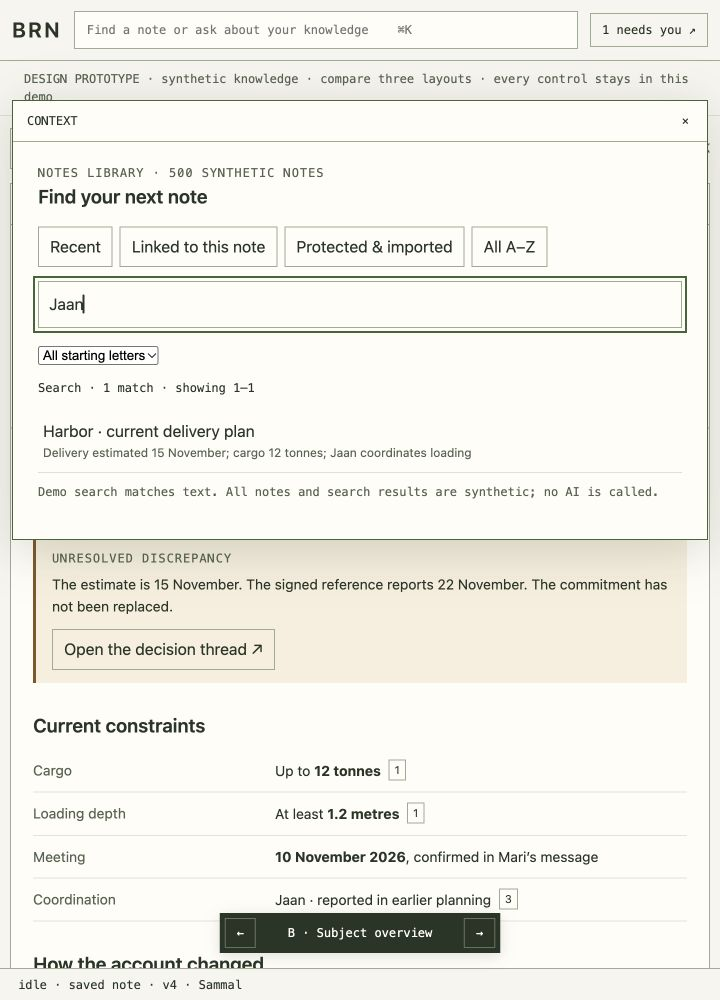
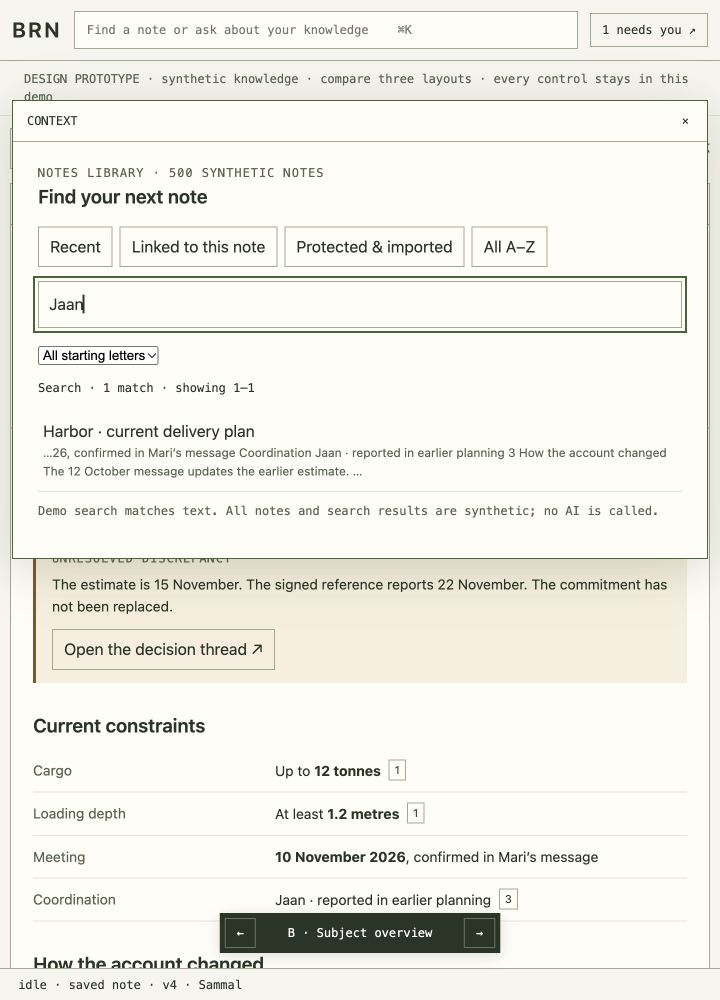
prototype: search complete note bodies with matching context

Changed region(s): [[0.0306, 0.434, 0.9778, 0.558]]

diff --git a/crates/brn-desktop/prototypes/ordinary-wiki-notes.prototype.html b/crates/brn-desktop/prototypes/ordinary-wiki-notes.prototype.html
@@ -17,7 +17,7 @@ const btn=(text,action,cls='')=>`<button class="${cls}" onclick="${action}">${te
 const head=title=>`<div class="tile-header chrome"><span>${title}</span><span>↗ &nbsp; ⋯</span></div>`;
 function title(){let n=notes[state.note];return `<div class="chips"><span class="chip mono">${n.purpose}</span><span class="chip mono ${n.protected?'protected':''}">${n.protected?'protected':'working'} · v${state.undo&&state.note==='project'?5:n.version}</span><span class="muted mono">${dirty()?'unsaved draft':'saved'}</span></div><h1>${n.title}</h1><div class="muted mono">Last accepted change · ${state.undo&&state.note==='project'?'13 October · owner · Undo preview':n.change}</div>`}
 function conflict(){return `<div class="warning"><div class="label">Unresolved discrepancy</div><p>The estimate is ${state.undo?'20':'15'} November. The signed reference reports 22 November. The commitment has not been replaced.</p>${btn('Open the decision thread ↗',"openDrawer('conflict')")}</div>`}
-function content(){if(notes[state.note].demo)return `<p class="summary">${notes[state.note].title}</p><p>This synthetic placeholder exercises navigation among 500 notes. It supplies no researched claims, retained sources or actual BRN history.</p>${btn('Return to Harbor overview',"selectNote('project')")}`;if(state.note==='commitment')return `<p class="summary">The signed agreement reports a committed delivery date of <strong>22 November 2026</strong>.</p><p>A change requires agreement by the parties. This imported reference is protected. Protection preserves its content; it does not certify its claims or record your adoption of them.</p><h2>Source</h2><p>Signed delivery agreement, 1 October 2026.</p>${btn('Read retained evidence',"openSource('agreement')")}`;if(state.note==='requirements')return `<p class="summary">Loading depends on both cargo mass and available water depth.</p><h2>Conditions</h2><p>The reported maximum cargo is <strong>12 tonnes</strong>. Loading requires depth of <strong>at least 1.2 metres</strong>. These are separate constraints; neither establishes that a proposed passage is possible.</p>${btn('Read source passage',"openSource('update')")}<h2>Related knowledge</h2>${btn('Harbor delivery plan →',"selectNote('project')")}`;if(state.note==='comparison')return `<p class="summary">Fixed slots offer a known clock window. Tidal access depends on water height and wind conditions.</p><h2>Supported differences</h2><p>Fixed slots: Tuesday 09:00–11:00, book 48 hours ahead, depth at least 1.2 metres. Medical emergencies can request an exception.</p><p>Tidal: height at least 2.4 metres, book 24 hours ahead, cargo at most 12 tonnes. Passage closes at wind of 18 metres/second or stronger.</p><h2>Interpretation</h2><p><strong>Inference:</strong> fixed slots may be easier to plan around, while tidal access may offer timing flexibility. The tidal source gives no medical-exception rule; it remains unspecified.</p><p class="muted mono">The context rail contains the two process references supporting this comparison.</p>`;return `<p class="summary">Delivery is <strong>estimated for ${state.undo?'20':'15'} November 2026</strong>. This is working planning evidence, not a replacement for the signed commitment.${state.undo?btn('3',"openSource('older')",'citation'):btn('1',"openSource('update')",'citation')}</p>${conflict()}<h2 id="constraints">Current constraints</h2><table class="facts"><tr><th>Cargo</th><td>Up to <strong>12 tonnes</strong> ${btn('1',"openSource('update')",'citation')}</td></tr><tr><th>Loading depth</th><td>At least <strong>1.2 metres</strong> ${btn('1',"openSource('update')",'citation')}</td></tr><tr><th>Meeting</th><td><strong>10 November 2026</strong>, confirmed in Mari’s message</td></tr><tr><th>Coordination</th><td>Jaan · reported in earlier planning ${btn('3',"openSource('older')",'citation')}</td></tr></table><h2 id="evidence">How the account changed</h2><p>The 12 October message updates the earlier estimate. The planning note written on 8 October was ingested later, but remains older evidence. Its contact detail is useful; its estimate does not become newer evidence.</p><h2 id="questions">Open question</h2><p>Clarify the estimate and signed commitment before making a new promise. No external reply has been sent.</p>`}
+function content(){if(notes[state.note].demo)return `<p class="summary">${notes[state.note].title}</p><p>${catalog.find(n=>n.id===state.note).searchText}</p><p>This synthetic placeholder exercises navigation among 500 notes. It supplies no researched claims, retained sources or actual BRN history.</p>${btn('Return to Harbor overview',"selectNote('project')")}`;if(state.note==='commitment')return `<p class="summary">The signed agreement reports a committed delivery date of <strong>22 November 2026</strong>.</p><p>A change requires agreement by the parties. This imported reference is protected. Protection preserves its content; it does not certify its claims or record your adoption of them.</p><h2>Source</h2><p>Signed delivery agreement, 1 October 2026.</p>${btn('Read retained evidence',"openSource('agreement')")}`;if(state.note==='requirements')return `<p class="summary">Loading depends on both cargo mass and available water depth.</p><h2>Conditions</h2><p>The reported maximum cargo is <strong>12 tonnes</strong>. Loading requires depth of <strong>at least 1.2 metres</strong>. These are separate constraints; neither establishes that a proposed passage is possible.</p>${btn('Read source passage',"openSource('update')")}<h2>Related knowledge</h2>${btn('Harbor delivery plan →',"selectNote('project')")}`;if(state.note==='comparison')return `<p class="summary">Fixed slots offer a known clock window. Tidal access depends on water height and wind conditions.</p><h2>Supported differences</h2><p>Fixed slots: Tuesday 09:00–11:00, book 48 hours ahead, depth at least 1.2 metres. Medical emergencies can request an exception.</p><p>Tidal: height at least 2.4 metres, book 24 hours ahead, cargo at most 12 tonnes. Passage closes at wind of 18 metres/second or stronger.</p><h2>Interpretation</h2><p><strong>Inference:</strong> fixed slots may be easier to plan around, while tidal access may offer timing flexibility. The tidal source gives no medical-exception rule; it remains unspecified.</p><p class="muted mono">The context rail contains the two process references supporting this comparison.</p>`;return `<p class="summary">Delivery is <strong>estimated for ${state.undo?'20':'15'} November 2026</strong>. This is working planning evidence, not a replacement for the signed commitment.${state.undo?btn('3',"openSource('older')",'citation'):btn('1',"openSource('update')",'citation')}</p>${conflict()}<h2 id="constraints">Current constraints</h2><table class="facts"><tr><th>Cargo</th><td>Up to <strong>12 tonnes</strong> ${btn('1',"openSource('update')",'citation')}</td></tr><tr><th>Loading depth</th><td>At least <strong>1.2 metres</strong> ${btn('1',"openSource('update')",'citation')}</td></tr><tr><th>Meeting</th><td><strong>10 November 2026</strong>, confirmed in Mari’s message</td></tr><tr><th>Coordination</th><td>Jaan · reported in earlier planning ${btn('3',"openSource('older')",'citation')}</td></tr></table><h2 id="evidence">How the account changed</h2><p>The 12 October message updates the earlier estimate. The planning note written on 8 October was ingested later, but remains older evidence. Its contact detail is useful; its estimate does not become newer evidence.</p><h2 id="questions">Open question</h2><p>Clarify the estimate and signed commitment before making a new promise. No external reply has been sent.</p>`}
 function nav(){return `<div class="tile">${head('NOTES')}<div class="nav"><input placeholder="Filter notes" aria-label="Filter notes" oninput="filterNotes(this.value)"><div class="label">Current subjects</div>${Object.entries(notes).map(([id,n])=>`<button data-note="${id}" class="note-link ${state.note===id?'selected':''}" onclick="selectNote('${id}')">${n.title}<small>${n.protected?'protected · imported':'working knowledge'}</small></button>`).join('')}<div class="label">Browse</div><p class="muted mono">Recent · linked work · A–Z</p></div></div>`}
 function contextEntries(){if(notes[state.note].demo)return [];let ids=state.note==='comparison'?['fixed','tidal']:state.note==='commitment'?['agreement']:state.note==='requirements'?['update','older']:['update','agreement','older'];return ids.map(id=>[id,sources[id]])}
 function sourceList(){return contextEntries().map(([id,s],i)=>`<div class="source"><button onclick="openSource('${id}')">${i+1}. ${s.title} ↗</button><div class="muted mono">${s.date}</div><div class="muted">${s.availability}</div></div>`).join('')}
@@ -28,7 +28,7 @@ const guard=()=>dirty()?'<div class="guard mono">Unsaved writing · dependent AI
 function A(){return `<div class="reading">${nav()}<article class="tile">${head('NOTE · READING')}${guard()}<div class="body">${title()}${content()}</div>${foot()}</article><aside class="tile">${head('NOTE CONTEXT')}<div class="context"><section><div class="label">Evidence</div>${sourceList()}</section><section><div class="label">Related notes</div>${related()}<h3>What changed</h3>${state.note==='project'?historyPreview():'<p class="muted">Inspect this note’s accepted revisions in history.</p>'}</section></div></aside></div>`}
 function B(){return `<div class="overview">${libraryBar()}<article class="tile">${head('SUBJECT OVERVIEW')}${guard()}<div class="overview-heading">${title()}<p class="muted">One subject account, with evidence and related work.</p></div><div class="overview-main"><div class="body">${content()}<h2>Connected work</h2>${related()}</div><div class="body"><div class="label">Evidence chronology</div><div class="timeline">${contextEntries().sort(([,a],[,b])=>a.date.localeCompare(b.date,undefined,{numeric:true})).map(([id])=>`<article><span class="mono muted">${sources[id].date}</span><h3>${sources[id].title}</h3><p>${sources[id].availability}</p>${btn('Inspect evidence →',`openSource('${id}')`)}</article>`).join('')}</div><div class="label">Change receipt</div>${historyPreview()}</div></div>${foot()}</article></div>`}
 function C(){return `<div class="connections"><aside class="tile">${head('CONNECTIONS')}<div class="map"><div class="label">Incoming evidence</div>${contextEntries().map(([id,s])=>`<button class="node" onclick="openSource('${id}')">${s.title}<small>${s.date} · source</small></button><div class="edge mono">↓ supports reported account</div>`).join('')}<div class="node current">${notes[state.note].title}<small>${notes[state.note].protected?'protected reference':'working knowledge'} · selected subject</small></div><div class="label">Related knowledge</div>${Object.entries(notes).filter(([id])=>id!==state.note).map(([id,n])=>`<button class="node" onclick="selectNote('${id}')">${n.title}<small>${n.protected?'protected reference':'related working note'} →</small></button>`).join('')}</div>${state.note==='project'?'<div class="outline"><div class="label">In this note</div><a href="#constraints">Current constraints</a><a href="#evidence">How the account changed</a><a href="#questions">Open question</a></div>':''}</aside><article class="tile">${head('CONNECTED READING')}${guard()}<div class="split-read"><div class="body">${title()}${content()}</div><aside class="evidence-margin"><div class="label">Evidence close to the text</div><p class="quote">${contextEntries().length?contextEntries()[0][1].quote.slice(0,130)+'…':'No retained evidence in this synthetic navigation fixture.'}</p>${contextEntries().length?btn('Inspect passage →',`openSource('${contextEntries()[0][0]}')`):''}<h3>Evidence boundaries</h3><p>Source reports, AI interpretation and owner decisions remain distinguishable.</p>${state.note==='project'?btn('Open decision thread →',"openDrawer('conflict')"):''}<h3>Version history</h3>${state.note==='project'?historyPreview():'<p class="muted">History is scoped to the selected note.</p>'}</aside></div>${foot()}</article></div>`}
-function render(){document.getElementById('app').innerHTML=({A,B,C}[variant])()+`<div class="state mono">DEMO STATE ${JSON.stringify({variant,note:state.note,protected:notes[state.note].protected,dirty:dirty(),undoPreview:state.undo,context:state.drawer,navigation:state.drawer==='library'?navigation:null})}\nPurpose labels and note-centered context are proposals. No BRN state is read or changed.</div>`;document.getElementById('variant-label').textContent=variant+' · '+names[variant];document.getElementById('status').textContent='idle · '+(dirty()?'unsaved draft':state.undo&&state.note==='project'?'Undo preview · v5':'saved note · v'+(state.undo&&state.note==='project'?5:notes[state.note].version))+' · Sammal'}
+function render(){refreshDemoIndex();document.getElementById('app').innerHTML=({A,B,C}[variant])()+`<div class="state mono">DEMO STATE ${JSON.stringify({variant,note:state.note,protected:notes[state.note].protected,dirty:dirty(),undoPreview:state.undo,context:state.drawer,navigation:state.drawer==='library'?navigation:null})}\nPurpose labels and note-centered context are proposals. No BRN state is read or changed.</div>`;document.getElementById('variant-label').textContent=variant+' · '+names[variant];document.getElementById('status').textContent='idle · '+(dirty()?'unsaved draft':state.undo&&state.note==='project'?'Undo preview · v5':'saved note · v'+(state.undo&&state.note==='project'?5:notes[state.note].version))+' · Sammal'}
 function cycle(delta){variant=variants[(variants.indexOf(variant)+delta+3)%3];let u=new URL(location);u.searchParams.set('variant',variant);history.replaceState({},'',u);render();window.scrollTo(0,0)}
 function selectNote(id){if(!notes[id]){let n=catalog.find(n=>n.id===id);notes[id]={title:n.title,purpose:'navigation fixture',protected:false,version:1,change:'Synthetic fixture · no recorded BRN change',demo:true}}state.note=id;navigation.recent=[id,...navigation.recent.filter(n=>n!==id)].slice(0,12);closeDrawer();window.scrollTo(0,0)}
 function filterNotes(text){document.querySelectorAll('[data-note]').forEach(el=>el.style.display=notes[el.dataset.note].title.toLowerCase().includes(text.toLowerCase())?'block':'none')}
@@ -45,8 +45,12 @@ let timer;function toast(text){document.querySelector('.toast')?.remove();let n=
 
 function libraryBar(){return `<div class="library-bar">${btn('Browse 500 notes',"openLibrary('all')")}${btn('Recent',"openLibrary('recent')")}${btn('Linked to this note',"openLibrary('linked')")}<span class="muted mono">Search titles or text · ⌘K</span></div>`}
 function libraryBody(){return `<div class="label">Notes library · 500 synthetic notes</div><h2>Find your next note</h2><div class="library-filters">${btn('Recent',"browseLibrary('recent')")}${btn('Linked to this note',"browseLibrary('linked')")}${btn('Protected & imported',"browseLibrary('protected')")}${btn('All A–Z',"browseLibrary('all')")}</div><input id="library-query" class="library-search" aria-label="Search 500 notes" placeholder="Search titles or note text…" value="${escapeText(navigation.query).replaceAll('"','&quot;')}" oninput="searchLibrary(this.value)" onkeydown="if(event.key==='Enter'){let n=libraryRows()[navigation.page*12];if(n)selectNote(n.id)}"><select aria-label="Starting letter" onchange="navigation.letter=this.value;navigation.page=0;renderLibrary()"><option value="">All starting letters</option>${[...new Set(catalog.map(n=>n.title[0]))].sort().map(l=>`<option ${navigation.letter===l?'selected':''}>${l}</option>`).join('')}</select><div id="library-results"></div><p class="muted mono">Demo search matches text. All notes and search results are synthetic; no AI is called.</p>`}
-function libraryRows(){let rows=catalog.slice();if(navigation.query.trim()){let q=navigation.query.trim().toLowerCase();rows=rows.filter(n=>(n.title+' '+n.searchText).toLowerCase().includes(q))}else if(navigation.mode==='recent')rows=navigation.recent.map(id=>catalog.find(n=>n.id===id));else if(navigation.mode==='linked')rows=notes[state.note].demo?[]:coreNoteIds.filter(id=>id!==state.note).map(id=>catalog.find(n=>n.id===id));else if(navigation.mode==='protected')rows=rows.filter(n=>notes[n.id]?.protected);if(navigation.letter)rows=rows.filter(n=>n.title.startsWith(navigation.letter));if(navigation.mode!=='recent'||navigation.query.trim())rows.sort((a,b)=>a.title.localeCompare(b.title));return rows}
-function renderLibrary(){let rows=libraryRows(),start=navigation.page*12,shown=rows.slice(start,start+12);document.getElementById('library-results').innerHTML=`<div class="library-count mono">${navigation.query.trim()?'Search':navigation.mode} · ${rows.length} ${rows.length===1?'match':'matches'} · ${rows.length?'showing '+(start+1)+'–'+(start+shown.length):'no matches'}</div>${shown.map(n=>`<button class="library-result" onclick="selectNote('${n.id}')">${n.title}<small>${n.searchText}</small></button>`).join('')||'<p>No matching notes. Try another word or clear the search.</p>'}<div class="chips">${navigation.page?btn('Previous 12',"navigation.page--;renderLibrary()") :''}${start+12<rows.length?btn('Next 12',"navigation.page++;renderLibrary()") :''}</div>`;render()}
+
+function refreshDemoIndex(){let current=state.note;for(let n of catalog){if(!n.fixture){state.note=n.id;n.bodyText=new DOMParser().parseFromString(content().replace(/<\/(p|h1|h2|h3|td|th|tr|div|table|button)>/g,' </$1>'),'text/html').body.textContent.replace(/\s+/g,' ').trim()}else n.bodyText=n.searchText+' This synthetic placeholder exercises navigation among 500 notes. It supplies no researched claims, retained sources or actual BRN history.'}state.note=current}
+function resultSnippet(n){let q=navigation.query.trim().toLowerCase(),index=q?n.bodyText.toLowerCase().indexOf(q):-1,start=Math.max(0,index-45);return (start?'…':'')+n.bodyText.slice(start,start+160)+(start+160<n.bodyText.length?'…':'')}
+
+function libraryRows(){let rows=catalog.slice();if(navigation.query.trim()){let q=navigation.query.trim().toLowerCase();rows=rows.filter(n=>(n.title+' '+n.bodyText).toLowerCase().includes(q))}else if(navigation.mode==='recent')rows=navigation.recent.map(id=>catalog.find(n=>n.id===id));else if(navigation.mode==='linked')rows=notes[state.note].demo?[]:coreNoteIds.filter(id=>id!==state.note).map(id=>catalog.find(n=>n.id===id));else if(navigation.mode==='protected')rows=rows.filter(n=>notes[n.id]?.protected);if(navigation.letter)rows=rows.filter(n=>n.title.startsWith(navigation.letter));if(navigation.mode!=='recent'||navigation.query.trim())rows.sort((a,b)=>a.title.localeCompare(b.title));return rows}
+function renderLibrary(){let rows=libraryRows(),start=navigation.page*12,shown=rows.slice(start,start+12);document.getElementById('library-results').innerHTML=`<div class="library-count mono">${navigation.query.trim()?'Search':navigation.mode} · ${rows.length} ${rows.length===1?'match':'matches'} · ${rows.length?'showing '+(start+1)+'–'+(start+shown.length):'no matches'}</div>${shown.map(n=>`<button class="library-result" onclick="selectNote('${n.id}')">${n.title}<small>${escapeText(resultSnippet(n))}</small></button>`).join('')||'<p>No matching notes. Try another word or clear the search.</p>'}<div class="chips">${navigation.page?btn('Previous 12',"navigation.page--;renderLibrary()") :''}${start+12<rows.length?btn('Next 12',"navigation.page++;renderLibrary()") :''}</div>`;render()}
 function openLibrary(mode){navigation.mode=mode;navigation.query='';navigation.letter='';navigation.page=0;openDrawer('library');document.getElementById('library-query').focus()}
 function browseLibrary(mode){navigation.mode=mode;navigation.query='';navigation.letter='';navigation.page=0;openDrawer('library')}
 function searchLibrary(value){navigation.query=value;navigation.page=0;if(state.drawer!=='library')openDrawer('library');else renderLibrary()}

diff --git a/crates/brn-desktop/prototypes/README.md b/crates/brn-desktop/prototypes/README.md
@@ -27,3 +27,5 @@ Desktop screenshots: [A](screenshots/variant-A.jpg), [B](screenshots/variant-B.j
 B now replaces its horizontal note strip with a bounded library browser containing 500 synthetic entries (four worked examples and 496 navigation placeholders). Search title/text, inspect snippets, open a result with Enter, revisit Recent, browse recorded demo relationships or protected notes, and filter All A–Z by starting letter. Twelve results are shown per page with exact counts. ⌘K opens the browser. Search uses simple literal matching; neither its relevance nor native large-workspace performance is qualified by this demo.
 
 Follow-up browser checks cover paging (1–12 / 13–24), searching a remembered detail (Jaan), opening with Enter, ⌘K, linked/protected views, letter filtering and no results. New screenshots: [search](screenshots/variant-B-search.jpg), [library](screenshots/variant-B-library.jpg), [narrow library](screenshots/variant-B-library-narrow.jpg). The 500-entry library was inspected at the default browser size and at 720×1000; viewport override reset afterward.
+
+Independent follow-up review found that abbreviated search summaries missed text such as Tuesday and Medical emergencies in the worked comparison. The demo now indexes full worked note bodies and displays a matching-context snippet separately; both remembered-detail searches and Enter opening were browser-verified after correction.
